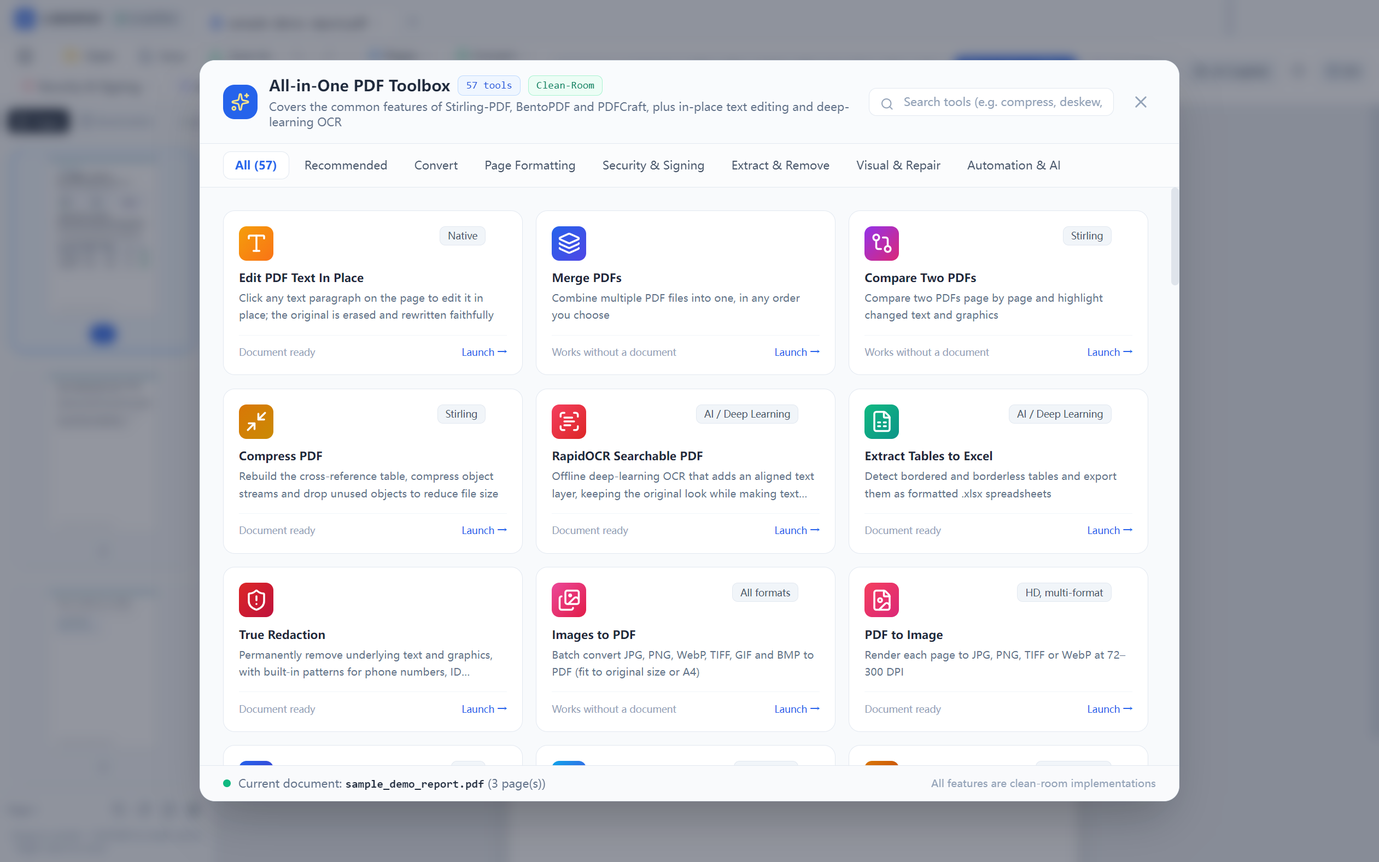
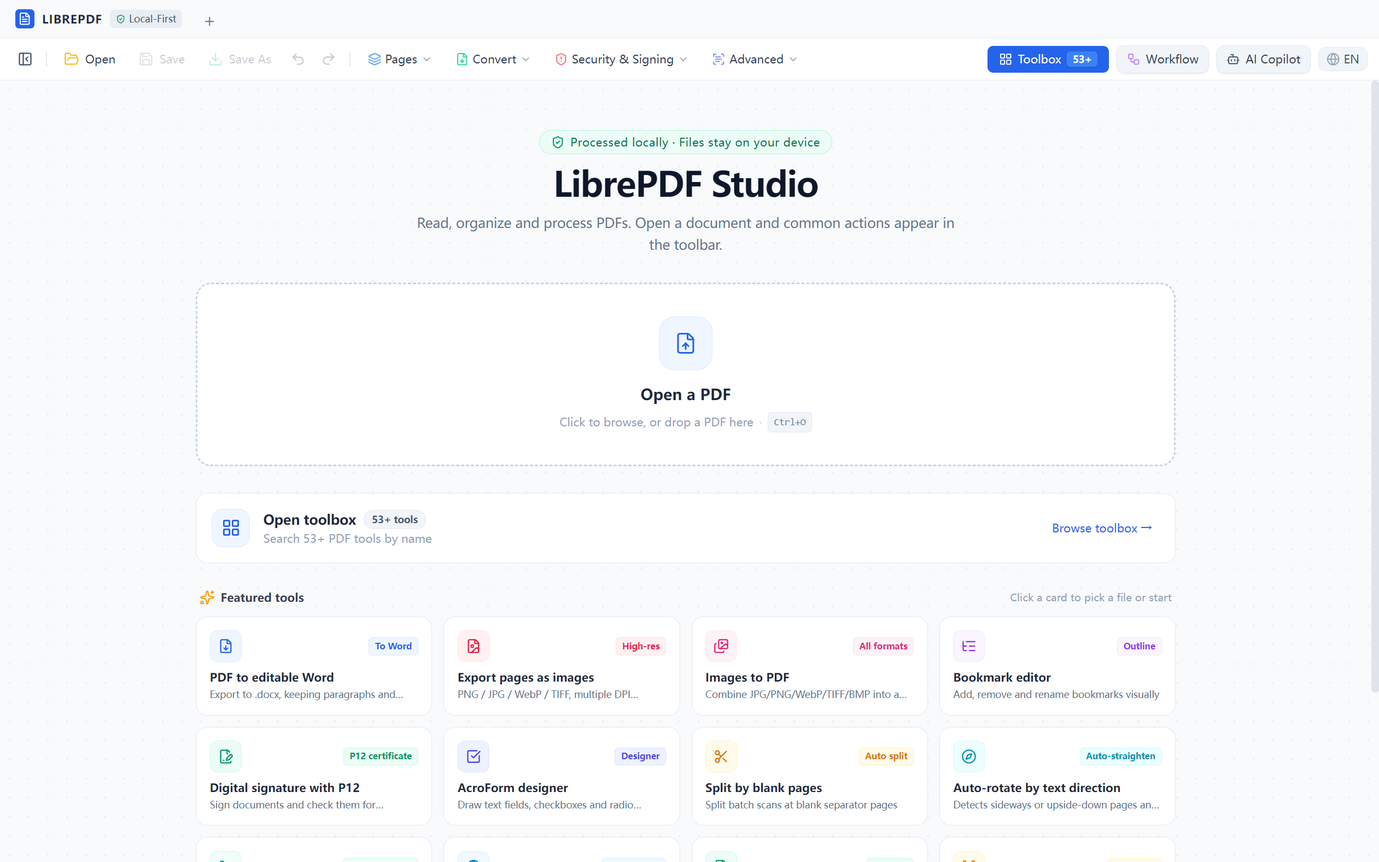
feat(ui): redesign home dashboard with clean bright desktop style and refresh showcase screenshots

diff --git a/src/renderer/src/components/viewer/PDFViewer.tsx b/src/renderer/src/components/viewer/PDFViewer.tsx
@@ -850,17 +850,18 @@ export const PDFViewer: React.FC = () => {
 
   if (!activeTab) {
     return (
-      <div className="flex-1 overflow-y-auto p-6 md:p-8 bg-slate-950/90 relative select-none">
-        <div className="absolute inset-0 bg-[radial-gradient(ellipse_at_50%_18%,rgba(20,184,166,0.10),transparent_54%),linear-gradient(180deg,#0c1415_0%,#080d10_100%)] pointer-events-none" />
+      <div className="flex-1 overflow-y-auto p-6 md:p-8 bg-[#f8fafc] relative select-none">
+        {/* 浅色细致网格质感桌面底纹 */}
+        <div className="absolute inset-0 bg-[radial-gradient(#cbd5e1_1px,transparent_1px)] [background-size:20px_20px] opacity-35 pointer-events-none" />
 
         <div className="relative z-10 max-w-5xl mx-auto flex flex-col items-center space-y-7 py-5">
-          <div className="text-center space-y-2">
-            <div className="inline-flex items-center space-x-2 px-3 py-1 rounded-full bg-brand-500/10 border border-brand-400/20 text-brand-200 text-[11px] font-semibold tracking-wide mb-1">
-              <ShieldCheck className="w-3.5 h-3.5" />
+          <div className="text-center space-y-2.5">
+            <div className="inline-flex items-center space-x-1.5 px-3 py-1 rounded-full bg-emerald-50 border border-emerald-200/80 text-emerald-700 text-xs font-medium tracking-wide shadow-2xs">
+              <ShieldCheck className="w-3.5 h-3.5 text-emerald-600" />
               <span>{tr('本地处理 · 文件留在你的设备', 'Processed locally · Files stay on your device')}</span>
             </div>
-            <h1 className="text-3xl md:text-4xl font-semibold tracking-tight text-slate-50">{t('app.name')}</h1>
-            <p className="text-sm text-slate-400 max-w-xl mx-auto leading-relaxed">
+            <h1 className="text-3xl md:text-4xl font-bold tracking-tight text-slate-900">{t('app.name')}</h1>
+            <p className="text-sm text-slate-500 max-w-xl mx-auto leading-relaxed">
               {tr('阅读、整理和处理 PDF。先打开一份文档，常用操作会出现在工具栏中。', 'Read, organize and process PDFs. Open a document and common actions appear in the toolbar.')}
             </p>
           </div>
@@ -892,30 +893,32 @@ export const PDFViewer: React.FC = () => {
               if (filePath) void openDocument(filePath)
               else setDropError(tr('无法读取所拖入文件的位置，请点击打开按钮选择文件。', 'Couldn\'t read the dropped file\'s location. Click to choose the file instead.'))
             }}
-            className={`w-full min-h-48 rounded-2xl p-8 cursor-pointer transition-all duration-200 group flex flex-col items-center justify-center gap-3 focus-visible:outline-none focus-visible:ring-2 focus-visible:ring-brand-300 ${
+            className={`w-full min-h-48 rounded-2xl p-8 cursor-pointer transition-all duration-200 group flex flex-col items-center justify-center gap-3.5 focus-visible:outline-none focus-visible:ring-2 focus-visible:ring-blue-500 ${
               isDragActive
-                ? 'border-2 border-brand-300 bg-brand-500/10 shadow-[0_0_48px_-20px_rgba(45,212,191,0.5)]'
+                ? 'border-2 border-dashed border-blue-500 bg-blue-50/60 shadow-md scale-[1.005]'
                 : 'border-2 border-dashed border-slate-300 bg-white hover:border-blue-500 hover:bg-blue-50/20 shadow-xs'
             }`}
           >
-            <div className="w-14 h-14 rounded-2xl bg-blue-50 border border-blue-200 flex items-center justify-center text-blue-600 group-hover:bg-blue-100 transition-colors">
-              <FileUp className="w-6 h-6" strokeWidth={1.7} />
+            <div className="w-14 h-14 rounded-2xl bg-blue-50 border border-blue-100 flex items-center justify-center text-blue-600 group-hover:scale-105 group-hover:bg-blue-100 transition-all shadow-2xs">
+              <FileUp className="w-6 h-6" strokeWidth={1.75} />
             </div>
             <div className="text-center">
-              <span className="text-base font-semibold text-slate-800 group-hover:text-blue-600 block">
+              <span className="text-base font-semibold text-slate-800 group-hover:text-blue-600 block transition-colors">
                 {isDragActive ? tr('松开鼠标以打开 PDF', 'Release to open the PDF') : tr('打开 PDF 文档', 'Open a PDF')}
               </span>
-              <span className="text-xs text-slate-400 mt-1.5 block">
-                {tr('点击浏览，或将 PDF 拖到此处', 'Click to browse, or drop a PDF here')} <span className="text-slate-500">·</span> Ctrl+O
+              <span className="text-xs text-slate-400 mt-1.5 flex items-center justify-center gap-1.5">
+                <span>{tr('点击浏览，或将 PDF 拖到此处', 'Click to browse, or drop a PDF here')}</span>
+                <span className="text-slate-300">·</span>
+                <kbd className="px-1.5 py-0.5 rounded bg-slate-100 border border-slate-200 text-[10px] font-mono text-slate-500">Ctrl+O</kbd>
               </span>
-              {dropError && <span role="alert" className="text-xs text-rose-300 mt-2 block">{dropError}</span>}
+              {dropError && <span role="alert" className="text-xs text-rose-600 mt-2 block font-medium">{dropError}</span>}
             </div>
           </button>
 
           {/* 全能工具箱矩阵大 Banner 按钮 */}
           <div
             onClick={() => setActiveDialog('toolbox')}
-            className="w-full p-4 rounded-xl bg-white hover:bg-slate-50 border border-slate-200 hover:border-blue-400 cursor-pointer transition-all shadow-xs flex items-center justify-between group focus-visible:outline-none focus-visible:ring-2 focus-visible:ring-blue-500"
+            className="w-full p-4 rounded-xl bg-white hover:bg-slate-50/80 border border-slate-200 hover:border-blue-300 cursor-pointer transition-all shadow-xs flex items-center justify-between group focus-visible:outline-none focus-visible:ring-2 focus-visible:ring-blue-500"
             role="button"
             tabIndex={0}
             onKeyDown={(event) => {
@@ -923,15 +926,15 @@ export const PDFViewer: React.FC = () => {
             }}
           >
             <div className="flex items-center space-x-3.5">
-              <div className="w-10 h-10 rounded-xl bg-brand-500/10 border border-brand-300/20 flex items-center justify-center text-brand-200 group-hover:bg-brand-500/15 transition-colors">
+              <div className="w-10 h-10 rounded-xl bg-blue-50 border border-blue-100 flex items-center justify-center text-blue-600 group-hover:bg-blue-100 transition-colors shadow-2xs">
                 <LayoutGrid className="w-5 h-5" />
               </div>
               <div className="text-left">
                 <div className="flex items-center space-x-2">
-                    <span className="font-semibold text-sm text-slate-800 group-hover:text-blue-600 transition-colors">
+                  <span className="font-semibold text-sm text-slate-800 group-hover:text-blue-600 transition-colors">
                     {tr('打开工具箱', 'Open toolbox')}
                   </span>
-                  <span className="px-2 py-0.5 rounded-full bg-slate-100 border border-slate-200 text-slate-600 text-[10px] font-semibold">
+                  <span className="px-2 py-0.5 rounded-full bg-slate-100 border border-slate-200/80 text-slate-600 text-[10px] font-semibold">
                     {tr('53+ 款工具', '53+ tools')}
                   </span>
                 </div>
@@ -940,32 +943,32 @@ export const PDFViewer: React.FC = () => {
                 </p>
               </div>
             </div>
-            <span className="text-xs text-blue-600 font-medium group-hover:translate-x-1 transition-transform pr-2">
+            <span className="text-xs text-blue-600 font-medium group-hover:translate-x-1 transition-transform pr-2 flex items-center gap-1">
               {tr('浏览工具箱', 'Browse toolbox')} →
             </span>
           </div>
 
           {/* 新增标杆功能与高频工具直达网格 */}
-          <div className="w-full space-y-2.5">
+          <div className="w-full space-y-3">
             <div className="flex items-center justify-between text-xs px-1">
-              <div className="flex items-center space-x-1.5 font-bold text-slate-300">
-                <Sparkles className="w-3.5 h-3.5 text-brand-400" />
+              <div className="flex items-center space-x-1.5 font-semibold text-slate-700">
+                <Sparkles className="w-4 h-4 text-amber-500" />
                 <span>{tr('常用工具', 'Featured tools')}</span>
               </div>
-              <span className="text-[11px] text-slate-500">{tr('点击卡片选择文件或直接启动', 'Click a card to pick a file or start')}</span>
+              <span className="text-[11px] text-slate-400">{tr('点击卡片选择文件或直接启动', 'Click a card to pick a file or start')}</span>
             </div>
 
             <div className="grid grid-cols-2 sm:grid-cols-3 md:grid-cols-4 gap-3">
               {/* 1. PDF 转 Word */}
               <div
                 onClick={handleQuickPdfToWord}
-                className="p-3.5 rounded-xl bg-white border border-slate-200 hover:border-blue-400 hover:shadow-xs transition-all cursor-pointer group flex flex-col justify-between space-y-2 shadow-sm"
+                className="p-3.5 rounded-xl bg-white hover:bg-slate-50/80 border border-slate-200 hover:border-blue-400 hover:shadow-xs transition-all cursor-pointer group flex flex-col justify-between space-y-2 shadow-2xs"
               >
                 <div className="flex items-center justify-between">
-                  <div className="p-2 rounded-lg bg-blue-500/10 text-blue-400 border border-blue-500/20 group-hover:scale-105 transition-transform">
+                  <div className="p-2 rounded-lg bg-blue-50 text-blue-600 border border-blue-100 group-hover:scale-105 transition-transform">
                     <FileDown className="w-4 h-4" />
                   </div>
-                  <span className="text-[9px] px-1.5 py-0.5 rounded bg-blue-500/20 text-blue-300 font-semibold">
+                  <span className="text-[9px] px-1.5 py-0.5 rounded bg-blue-50 text-blue-600 border border-blue-200/50 font-semibold">
                     {tr('转 Word', 'To Word')}
                   </span>
                 </div>
@@ -982,13 +985,13 @@ export const PDFViewer: React.FC = () => {
               {/* 2. PDF 转图片 */}
               <div
                 onClick={() => openThenDialog('pdfToImage')}
-                className="p-3.5 rounded-xl bg-slate-900/60 border border-slate-800/80 hover:border-rose-500 hover:bg-slate-900 transition-all cursor-pointer group flex flex-col justify-between space-y-2 shadow-sm"
+                className="p-3.5 rounded-xl bg-white hover:bg-slate-50/80 border border-slate-200 hover:border-rose-400 hover:shadow-xs transition-all cursor-pointer group flex flex-col justify-between space-y-2 shadow-2xs"
               >
                 <div className="flex items-center justify-between">
-                  <div className="p-2 rounded-lg bg-rose-500/10 text-rose-400 border border-rose-500/20 group-hover:scale-105 transition-transform">
+                  <div className="p-2 rounded-lg bg-rose-50 text-rose-600 border border-rose-100 group-hover:scale-105 transition-transform">
                     <FileImage className="w-4 h-4" />
                   </div>
-                  <span className="text-[9px] px-1.5 py-0.5 rounded bg-rose-500/20 text-rose-300 font-semibold">
+                  <span className="text-[9px] px-1.5 py-0.5 rounded bg-rose-50 text-rose-600 border border-rose-200/50 font-semibold">
                     {tr('高清导出', 'High-res')}
                   </span>
                 </div>
@@ -1005,18 +1008,18 @@ export const PDFViewer: React.FC = () => {
               {/* 3. 图片转 PDF */}
               <div
                 onClick={() => setActiveDialog('imagesToPdf')}
-                className="p-3.5 rounded-xl bg-slate-900/60 border border-slate-800/80 hover:border-pink-500 hover:bg-slate-900 transition-all cursor-pointer group flex flex-col justify-between space-y-2 shadow-sm"
+                className="p-3.5 rounded-xl bg-white hover:bg-slate-50/80 border border-slate-200 hover:border-pink-400 hover:shadow-xs transition-all cursor-pointer group flex flex-col justify-between space-y-2 shadow-2xs"
               >
                 <div className="flex items-center justify-between">
-                  <div className="p-2 rounded-lg bg-pink-500/10 text-pink-400 border border-pink-500/20 group-hover:scale-105 transition-transform">
+                  <div className="p-2 rounded-lg bg-pink-50 text-pink-600 border border-pink-100 group-hover:scale-105 transition-transform">
                     <Images className="w-4 h-4" />
                   </div>
-                  <span className="text-[9px] px-1.5 py-0.5 rounded bg-pink-500/20 text-pink-300 font-semibold">
+                  <span className="text-[9px] px-1.5 py-0.5 rounded bg-pink-50 text-pink-600 border border-pink-200/50 font-semibold">
                     {tr('全格式', 'All formats')}
                   </span>
                 </div>
                 <div>
-                  <h4 className="text-xs font-semibold text-slate-200 group-hover:text-pink-300 transition-colors">
+                  <h4 className="text-xs font-semibold text-slate-800 group-hover:text-pink-600 transition-colors">
                     {tr('图片批量转 PDF', 'Images to PDF')}
                   </h4>
                   <p className="text-[10px] text-slate-500 line-clamp-1 mt-0.5">
@@ -1028,13 +1031,13 @@ export const PDFViewer: React.FC = () => {
               {/* 4. 大纲书签目录编辑器 */}
               <div
                 onClick={handleQuickTocEditor}
-                className="p-3.5 rounded-xl bg-slate-900/60 border border-slate-800/80 hover:border-purple-500 hover:bg-slate-900 transition-all cursor-pointer group flex flex-col justify-between space-y-2 shadow-sm"
+                className="p-3.5 rounded-xl bg-white hover:bg-slate-50/80 border border-slate-200 hover:border-purple-400 hover:shadow-xs transition-all cursor-pointer group flex flex-col justify-between space-y-2 shadow-2xs"
               >
                 <div className="flex items-center justify-between">
-                  <div className="p-2 rounded-lg bg-purple-500/10 text-purple-400 border border-purple-500/20 group-hover:scale-105 transition-transform">
+                  <div className="p-2 rounded-lg bg-purple-50 text-purple-600 border border-purple-100 group-hover:scale-105 transition-transform">
                     <ListTree className="w-4 h-4" />
                   </div>
-                  <span className="text-[9px] px-1.5 py-0.5 rounded bg-purple-500/20 text-purple-300 font-semibold">
+                  <span className="text-[9px] px-1.5 py-0.5 rounded bg-purple-50 text-purple-600 border border-purple-200/50 font-semibold">
                     {tr('大纲树', 'Outline')}
                   </span>
                 </div>
@@ -1051,13 +1054,13 @@ export const PDFViewer: React.FC = () => {
               {/* 5. 数字签名与验签 */}
               <div
                 onClick={handleQuickDigitalSign}
-                className="p-3.5 rounded-xl bg-slate-900/60 border border-slate-800/80 hover:border-emerald-500 hover:bg-slate-900 transition-all cursor-pointer group flex flex-col justify-between space-y-2 shadow-sm"
+                className="p-3.5 rounded-xl bg-white hover:bg-slate-50/80 border border-slate-200 hover:border-emerald-400 hover:shadow-xs transition-all cursor-pointer group flex flex-col justify-between space-y-2 shadow-2xs"
               >
                 <div className="flex items-center justify-between">
-                  <div className="p-2 rounded-lg bg-emerald-500/10 text-emerald-400 border border-emerald-500/20 group-hover:scale-105 transition-transform">
+                  <div className="p-2 rounded-lg bg-emerald-50 text-emerald-600 border border-emerald-100 group-hover:scale-105 transition-transform">
                     <FileSignature className="w-4 h-4" />
                   </div>
-                  <span className="text-[9px] px-1.5 py-0.5 rounded bg-emerald-500/20 text-emerald-300 font-semibold">
+                  <span className="text-[9px] px-1.5 py-0.5 rounded bg-emerald-50 text-emerald-600 border border-emerald-200/50 font-semibold">
                     {tr('P12 证书', 'P12 certificate')}
                   </span>
                 </div>
@@ -1074,13 +1077,13 @@ export const PDFViewer: React.FC = () => {
               {/* 6. 表单设计器 */}
               <div
                 onClick={handleQuickFormDesigner}
-                className="p-3.5 rounded-xl bg-slate-900/60 border border-slate-800/80 hover:border-indigo-500 hover:bg-slate-900 transition-all cursor-pointer group flex flex-col justify-between space-y-2 shadow-sm"
+                className="p-3.5 rounded-xl bg-white hover:bg-slate-50/80 border border-slate-200 hover:border-indigo-400 hover:shadow-xs transition-all cursor-pointer group flex flex-col justify-between space-y-2 shadow-2xs"
               >
                 <div className="flex items-center justify-between">
-                  <div className="p-2 rounded-lg bg-indigo-500/10 text-indigo-400 border border-indigo-500/20 group-hover:scale-105 transition-transform">
+                  <div className="p-2 rounded-lg bg-indigo-50 text-indigo-600 border border-indigo-100 group-hover:scale-105 transition-transform">
                     <CheckSquare className="w-4 h-4" />
                   </div>
-                  <span className="text-[9px] px-1.5 py-0.5 rounded bg-indigo-500/20 text-indigo-300 font-semibold">
+                  <span className="text-[9px] px-1.5 py-0.5 rounded bg-indigo-50 text-indigo-600 border border-indigo-200/50 font-semibold">
                     {tr('设计器', 'Designer')}
                   </span>
                 </div>
@@ -1097,13 +1100,13 @@ export const PDFViewer: React.FC = () => {
               {/* 7. 按空白页自动切分 */}
               <div
                 onClick={handleQuickSplitByBlank}
-                className="p-3.5 rounded-xl bg-slate-900/60 border border-slate-800/80 hover:border-amber-500 hover:bg-slate-900 transition-all cursor-pointer group flex flex-col justify-between space-y-2 shadow-sm"
+                className="p-3.5 rounded-xl bg-white hover:bg-slate-50/80 border border-slate-200 hover:border-amber-400 hover:shadow-xs transition-all cursor-pointer group flex flex-col justify-between space-y-2 shadow-2xs"
               >
                 <div className="flex items-center justify-between">
-                  <div className="p-2 rounded-lg bg-amber-500/10 text-amber-400 border border-amber-500/20 group-hover:scale-105 transition-transform">
+                  <div className="p-2 rounded-lg bg-amber-50 text-amber-600 border border-amber-100 group-hover:scale-105 transition-transform">
                     <Scissors className="w-4 h-4" />
                   </div>
-                  <span className="text-[9px] px-1.5 py-0.5 rounded bg-amber-500/20 text-amber-300 font-semibold">
+                  <span className="text-[9px] px-1.5 py-0.5 rounded bg-amber-50 text-amber-600 border border-amber-200/50 font-semibold">
                     {tr('自动切分', 'Auto split')}
                   </span>
                 </div>
@@ -1120,13 +1123,13 @@ export const PDFViewer: React.FC = () => {
               {/* 8. 整页文字朝向自动旋转回正 */}
               <div
                 onClick={handleQuickAutoRotate}
-                className="p-3.5 rounded-xl bg-slate-900/60 border border-slate-800/80 hover:border-cyan-500 hover:bg-slate-900 transition-all cursor-pointer group flex flex-col justify-between space-y-2 shadow-sm"
+                className="p-3.5 rounded-xl bg-white hover:bg-slate-50/80 border border-slate-200 hover:border-cyan-400 hover:shadow-xs transition-all cursor-pointer group flex flex-col justify-between space-y-2 shadow-2xs"
               >
                 <div className="flex items-center justify-between">
-                  <div className="p-2 rounded-lg bg-cyan-500/10 text-cyan-400 border border-cyan-500/20 group-hover:scale-105 transition-transform">
+                  <div className="p-2 rounded-lg bg-cyan-50 text-cyan-600 border border-cyan-100 group-hover:scale-105 transition-transform">
                     <Compass className="w-4 h-4" />
                   </div>
-                  <span className="text-[9px] px-1.5 py-0.5 rounded bg-cyan-500/20 text-cyan-300 font-semibold">
+                  <span className="text-[9px] px-1.5 py-0.5 rounded bg-cyan-50 text-cyan-600 border border-cyan-200/50 font-semibold">
                     {tr('自动回正', 'Auto-straighten')}
                   </span>
                 </div>
@@ -1143,13 +1146,13 @@ export const PDFViewer: React.FC = () => {
               {/* 9. 双文档比对 */}
               <div
                 onClick={() => setActiveDialog('compare')}
-                className="p-3.5 rounded-xl bg-slate-900/60 border border-slate-800/80 hover:border-teal-500 hover:bg-slate-900 transition-all cursor-pointer group flex flex-col justify-between space-y-2 shadow-sm"
+                className="p-3.5 rounded-xl bg-white hover:bg-slate-50/80 border border-slate-200 hover:border-teal-400 hover:shadow-xs transition-all cursor-pointer group flex flex-col justify-between space-y-2 shadow-2xs"
               >
                 <div className="flex items-center justify-between">
-                  <div className="p-2 rounded-lg bg-teal-500/10 text-teal-400 border border-teal-500/20 group-hover:scale-105 transition-transform">
+                  <div className="p-2 rounded-lg bg-teal-50 text-teal-600 border border-teal-100 group-hover:scale-105 transition-transform">
                     <GitCompare className="w-4 h-4" />
                   </div>
-                  <span className="text-[9px] px-1.5 py-0.5 rounded bg-teal-500/20 text-teal-300 font-semibold">
+                  <span className="text-[9px] px-1.5 py-0.5 rounded bg-teal-50 text-teal-600 border border-teal-200/50 font-semibold">
                     {tr('差异标红', 'Highlight diffs')}
                   </span>
                 </div>
@@ -1166,18 +1169,18 @@ export const PDFViewer: React.FC = () => {
               {/* 10. 网页 URL / HTML 转高保真 PDF */}
               <div
                 onClick={() => setActiveDialog('htmlToPdf')}
-                className="p-3.5 rounded-xl bg-slate-900/60 border border-slate-800/80 hover:border-sky-500 hover:bg-slate-900 transition-all cursor-pointer group flex flex-col justify-between space-y-2 shadow-sm"
+                className="p-3.5 rounded-xl bg-white hover:bg-slate-50/80 border border-slate-200 hover:border-sky-400 hover:shadow-xs transition-all cursor-pointer group flex flex-col justify-between space-y-2 shadow-2xs"
               >
                 <div className="flex items-center justify-between">
-                  <div className="p-2 rounded-lg bg-sky-500/10 text-sky-400 border border-sky-500/20 group-hover:scale-105 transition-transform">
+                  <div className="p-2 rounded-lg bg-sky-50 text-sky-600 border border-sky-100 group-hover:scale-105 transition-transform">
                     <Globe className="w-4 h-4" />
                   </div>
-                  <span className="text-[9px] px-1.5 py-0.5 rounded bg-sky-500/20 text-sky-300 font-semibold">
+                  <span className="text-[9px] px-1.5 py-0.5 rounded bg-sky-50 text-sky-600 border border-sky-200/50 font-semibold">
                     {tr('网页转 PDF', 'Web to PDF')}
                   </span>
                 </div>
                 <div>
-                  <h4 className="text-xs font-semibold text-slate-200 group-hover:text-sky-300 transition-colors">
+                  <h4 className="text-xs font-semibold text-slate-800 group-hover:text-sky-600 transition-colors">
                     {tr('网页 URL / HTML 转 PDF', 'Web page URL / HTML to PDF')}
                   </h4>
                   <p className="text-[10px] text-slate-500 line-clamp-1 mt-0.5">
@@ -1189,13 +1192,13 @@ export const PDFViewer: React.FC = () => {
               {/* 11. 复杂表格导出为 Excel */}
               <div
                 onClick={() => openThenDialog('tableExtract')}
-                className="p-3.5 rounded-xl bg-slate-900/60 border border-slate-800/80 hover:border-emerald-500 hover:bg-slate-900 transition-all cursor-pointer group flex flex-col justify-between space-y-2 shadow-sm"
+                className="p-3.5 rounded-xl bg-white hover:bg-slate-50/80 border border-slate-200 hover:border-emerald-400 hover:shadow-xs transition-all cursor-pointer group flex flex-col justify-between space-y-2 shadow-2xs"
               >
                 <div className="flex items-center justify-between">
-                  <div className="p-2 rounded-lg bg-emerald-500/10 text-emerald-400 border border-emerald-500/20 group-hover:scale-105 transition-transform">
+                  <div className="p-2 rounded-lg bg-emerald-50 text-emerald-600 border border-emerald-100 group-hover:scale-105 transition-transform">
                     <FileSpreadsheet className="w-4 h-4" />
                   </div>
-                  <span className="text-[9px] px-1.5 py-0.5 rounded bg-emerald-500/20 text-emerald-300 font-semibold">
+                  <span className="text-[9px] px-1.5 py-0.5 rounded bg-emerald-50 text-emerald-600 border border-emerald-200/50 font-semibold">
                     {tr('转 Excel', 'To Excel')}
                   </span>
                 </div>
@@ -1212,18 +1215,18 @@ export const PDFViewer: React.FC = () => {
               {/* 12. 仿真实体扫描件效果 */}
               <div
                 onClick={() => openThenDialog('scanner')}
-                className="p-3.5 rounded-xl bg-slate-900/60 border border-slate-800/80 hover:border-yellow-500 hover:bg-slate-900 transition-all cursor-pointer group flex flex-col justify-between space-y-2 shadow-sm"
+                className="p-3.5 rounded-xl bg-white hover:bg-slate-50/80 border border-slate-200 hover:border-amber-400 hover:shadow-xs transition-all cursor-pointer group flex flex-col justify-between space-y-2 shadow-2xs"
               >
                 <div className="flex items-center justify-between">
-                  <div className="p-2 rounded-lg bg-yellow-500/10 text-yellow-400 border border-yellow-500/20 group-hover:scale-105 transition-transform">
+                  <div className="p-2 rounded-lg bg-amber-50 text-amber-600 border border-amber-100 group-hover:scale-105 transition-transform">
                     <ScanLine className="w-4 h-4" />
                   </div>
-                  <span className="text-[9px] px-1.5 py-0.5 rounded bg-yellow-500/20 text-yellow-300 font-semibold">
+                  <span className="text-[9px] px-1.5 py-0.5 rounded bg-amber-50 text-amber-600 border border-amber-200/50 font-semibold">
                     {tr('扫描质感', 'Scan look')}
                   </span>
                 </div>
                 <div>
-                  <h4 className="text-xs font-semibold text-slate-200 group-hover:text-yellow-300 transition-colors">
+                  <h4 className="text-xs font-semibold text-slate-800 group-hover:text-amber-600 transition-colors">
                     {tr('模拟扫描件效果', 'Simulated scan effect')}
                   </h4>
                   <p className="text-[10px] text-slate-500 line-clamp-1 mt-0.5">
@@ -1235,28 +1238,34 @@ export const PDFViewer: React.FC = () => {
           </div>
 
           {/* 底部三大保障徽标 */}
-          <div className="grid grid-cols-3 gap-3 w-full pt-1">
-            <div className="bg-white border border-slate-200 shadow-xs rounded-xl p-3 text-left flex items-center space-x-2.5">
-              <ShieldCheck className="w-4 h-4 text-brand-400 shrink-0" />
+          <div className="grid grid-cols-1 sm:grid-cols-3 gap-3 w-full pt-1">
+            <div className="bg-white border border-slate-200 shadow-2xs rounded-xl p-3 text-left flex items-center space-x-3">
+              <div className="w-8 h-8 rounded-lg bg-emerald-50 border border-emerald-100 flex items-center justify-center shrink-0">
+                <ShieldCheck className="w-4 h-4 text-emerald-600" />
+              </div>
               <div>
-                <span className="text-xs font-medium text-slate-800 block">{tr('离线运行', 'Works offline')}</span>
-                <span className="text-[10px] text-slate-500">{tr('无网络遥测，可商用', 'No telemetry, safe for commercial use')}</span>
+                <span className="text-xs font-semibold text-slate-800 block">{tr('离线运行', 'Works offline')}</span>
+                <span className="text-[11px] text-slate-500">{tr('无网络遥测，安全可靠', 'No telemetry, safe and secure')}</span>
               </div>
             </div>
 
-            <div className="bg-white border border-slate-200 shadow-xs rounded-xl p-3 text-left flex items-center space-x-2.5">
-              <Sparkles className="w-4 h-4 text-cyan-400 shrink-0" />
+            <div className="bg-white border border-slate-200 shadow-2xs rounded-xl p-3 text-left flex items-center space-x-3">
+              <div className="w-8 h-8 rounded-lg bg-cyan-50 border border-cyan-100 flex items-center justify-center shrink-0">
+                <Sparkles className="w-4 h-4 text-cyan-600" />
+              </div>
               <div>
-                <span className="text-xs font-medium text-slate-800 block">{tr('AI 智能助手', 'AI Copilot')}</span>
-                <span className="text-[10px] text-slate-500">{tr('连接本地 Ollama，用自然语言操作', 'Local Ollama, plain-language commands')}</span>
+                <span className="text-xs font-semibold text-slate-800 block">{tr('AI 智能助手', 'AI Copilot')}</span>
+                <span className="text-[11px] text-slate-500">{tr('连接本地 Ollama，自然语言操作', 'Local Ollama, plain-language commands')}</span>
               </div>
             </div>
 
-            <div className="bg-white border border-slate-200 shadow-xs rounded-xl p-3 text-left flex items-center space-x-2.5">
-              <LayoutTemplate className="w-4 h-4 text-purple-400 shrink-0" />
+            <div className="bg-white border border-slate-200 shadow-2xs rounded-xl p-3 text-left flex items-center space-x-3">
+              <div className="w-8 h-8 rounded-lg bg-purple-50 border border-purple-100 flex items-center justify-center shrink-0">
+                <LayoutTemplate className="w-4 h-4 text-purple-600" />
+              </div>
               <div>
-                <span className="text-xs font-medium text-slate-800 block">{tr('可视化连线工作流', 'Visual workflows')}</span>
-                <span className="text-[10px] text-slate-500">{tr('基于节点的批处理流水线', 'Node-based batch pipelines')}</span>
+                <span className="text-xs font-semibold text-slate-800 block">{tr('可视化连线工作流', 'Visual workflows')}</span>
+                <span className="text-[11px] text-slate-500">{tr('基于节点的批处理流水线', 'Node-based batch pipelines')}</span>
               </div>
             </div>
           </div>

diff --git a/README.md b/README.md
@@ -48,11 +48,11 @@ Most online and commercial PDF software suffer from severe limitations: **intrus
   <img src="docs/screenshots/editor-capsule.png" alt="In-Place Text Editor" width="92%" />
 </p>
 
-### 3. 53+ Enterprise-Grade Atomic Tool Matrix
-> Comprehensive utility cockpit providing instant access to all PDF operations with zero configuration.
+### 3. Clean Native Home Dashboard & Quick Launch
+> Clean, bright native desktop start screen featuring drag-and-drop workspace, instant quick-action tools, and one-click access to 53+ clean-room PDF tools.
 
 <p align="center">
-  <img src="docs/screenshots/dashboard.png" alt="53+ Atomic Tool Matrix" width="92%" />
+  <img src="docs/screenshots/dashboard.png" alt="Clean Native Home Dashboard" width="92%" />
 </p>
 
 ### 4. Visual DAG Workflow Studio (Node-Based Pipelines)
